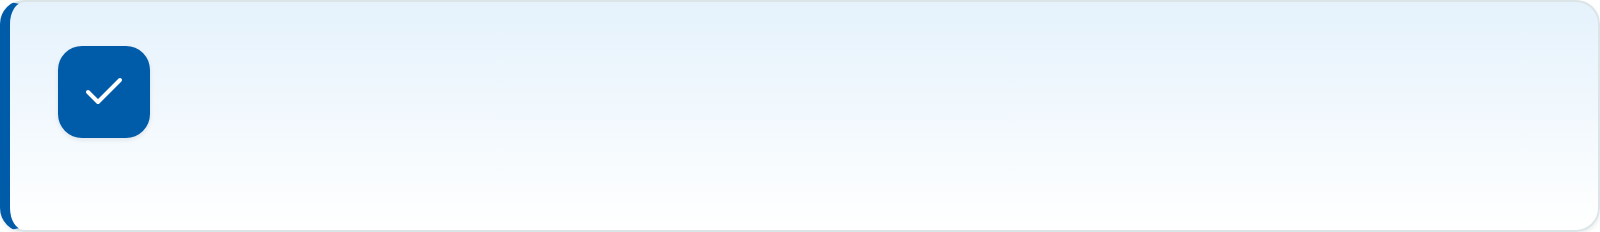
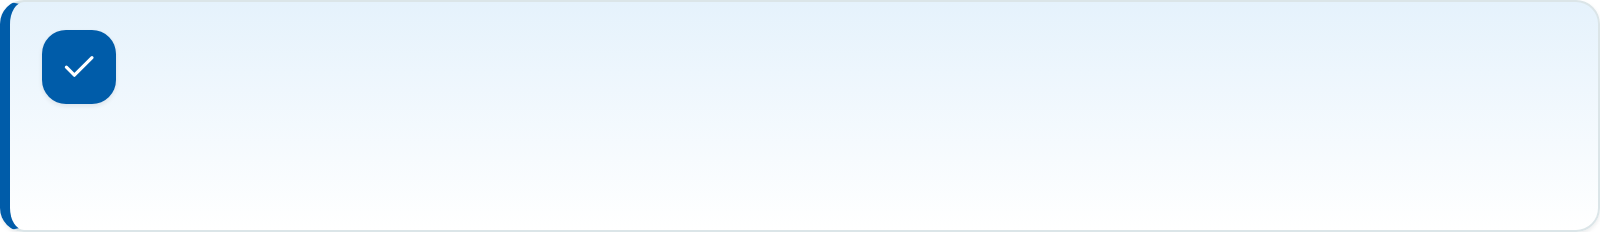
Shrink and tuck the seal on the rule background
The seal drops to 80% of the prototype's 46px, glyph included, and moves 8px up
and 8px left. The shift is a negative margin rather than less padding on the
block: the padding is where the text typed in SharePoint begins, and moving it
would drag the first line along with the seal.

Claude-Session: https://claude.ai/code/session_019NmiVkfk9ZXceb87ffsC4p

Changed region(s): [[0.0, 0.1207, 0.0938, 0.6034]]

diff --git a/prototypes/versionamento-codigo/sharepoint/gerar-fundo-regra.js b/prototypes/versionamento-codigo/sharepoint/gerar-fundo-regra.js
@@ -29,6 +29,13 @@ const VERSOES = [
   { arquivo: 'regra-fundo-icone', selo: true },
 ];
 
+// O selo do protótipo tem 46px com glifo de 24px. Aqui ele sai 20% menor e
+// recuado para o canto, por margem negativa: mexer no padding do bloco moveria
+// junto a linha onde o texto digitado no SharePoint vai começar.
+const CX_SELO = 46 * 0.8;
+const CX_GLIFO = 24 * 0.8;
+const RECUO = 8;
+
 (async () => {
   const browser = await chromium.launch();
   const p = await browser.newPage({
@@ -40,7 +47,7 @@ const VERSOES = [
     // recarrega a cada versão: a montagem remove nós do DOM e a seguinte não
     // pode herdar o bloco já desmontado
     await p.goto(`file://${path.join(RAIZ, ORIGEM)}`);
-    await p.evaluate(({ w, h, selo }) => {
+    await p.evaluate(({ w, h, selo, sel, gli, rec }) => {
       document.documentElement.classList.remove('app-dark');
       document.body.classList.remove('show-sp');
       // omitBackground só apaga o branco padrão do navegador, não o background
@@ -61,8 +68,19 @@ const VERSOES = [
       });
       // o texto da regra é o que será digitado no SharePoint; aqui sobra a moldura
       regra.querySelector('.r-body').remove();
-      regra.querySelector('.r-badge').style.display = selo ? '' : 'none';
-    }, { w: CSS[0], h: CSS[1], selo });
+      const badge = regra.querySelector('.r-badge');
+      if (!selo) {
+        badge.style.display = 'none';
+        return;
+      }
+      Object.assign(badge.style, {
+        width: `${sel}px`, height: `${sel}px`,
+        marginTop: `-${rec}px`, marginLeft: `-${rec}px`,
+      });
+      const g = badge.querySelector('svg').style;
+      g.width = `${gli}px`;
+      g.height = `${gli}px`;
+    }, { w: CSS[0], h: CSS[1], selo, sel: CX_SELO, gli: CX_GLIFO, rec: RECUO });
 
     const alvo = path.join(SAIDA, `${arquivo}-${CSS[0] * K}x${CSS[1] * K}.png`);
     await p.locator('.regra').screenshot({ path: alvo, omitBackground: true });
